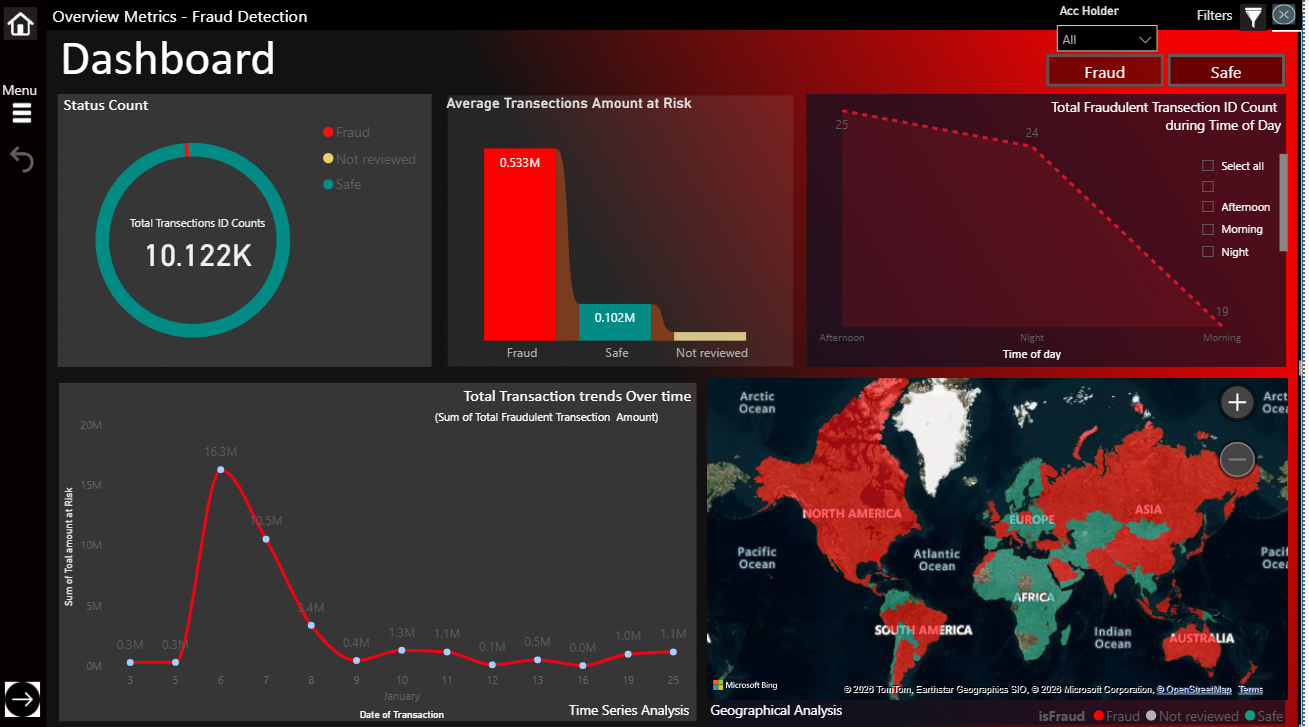
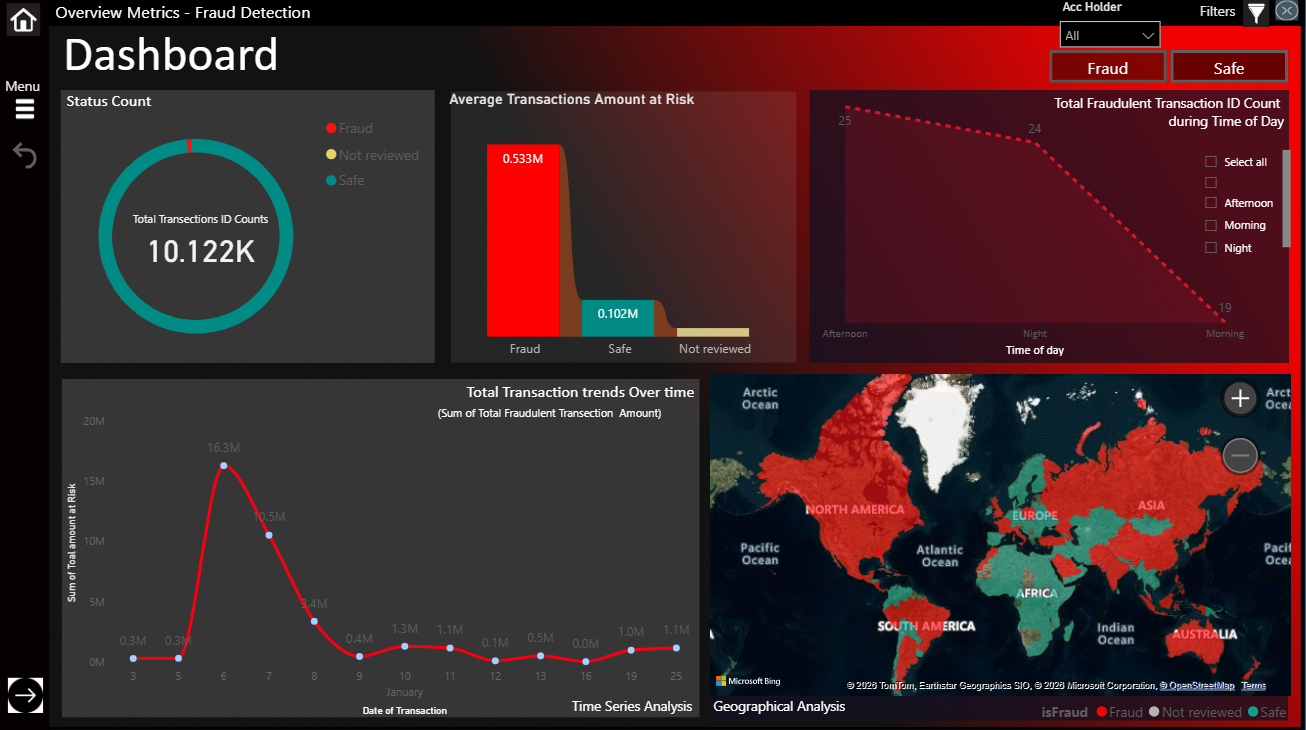
Update fraud detection dashboard: [brief description of what changed]

diff --git a/READMe.md b/READMe.md
@@ -13,10 +13,10 @@ The dashboard is built on a single, cleaned transaction table and uses custom bo
 ## 📸 Screenshots
 
 Dashboard
-![Image not loaded.](screenshots/pj2.1.png)
+![Image not loaded.](screenshots\pj2.1.png)
 
 Fraud
-![Image not loaded.](screenshots/pj2.2.png)
+![Image not loaded.](screenshots\pj2.2.png)
 
 Customers
 ![Image not loaded.](screenshots/pj2.3.png)